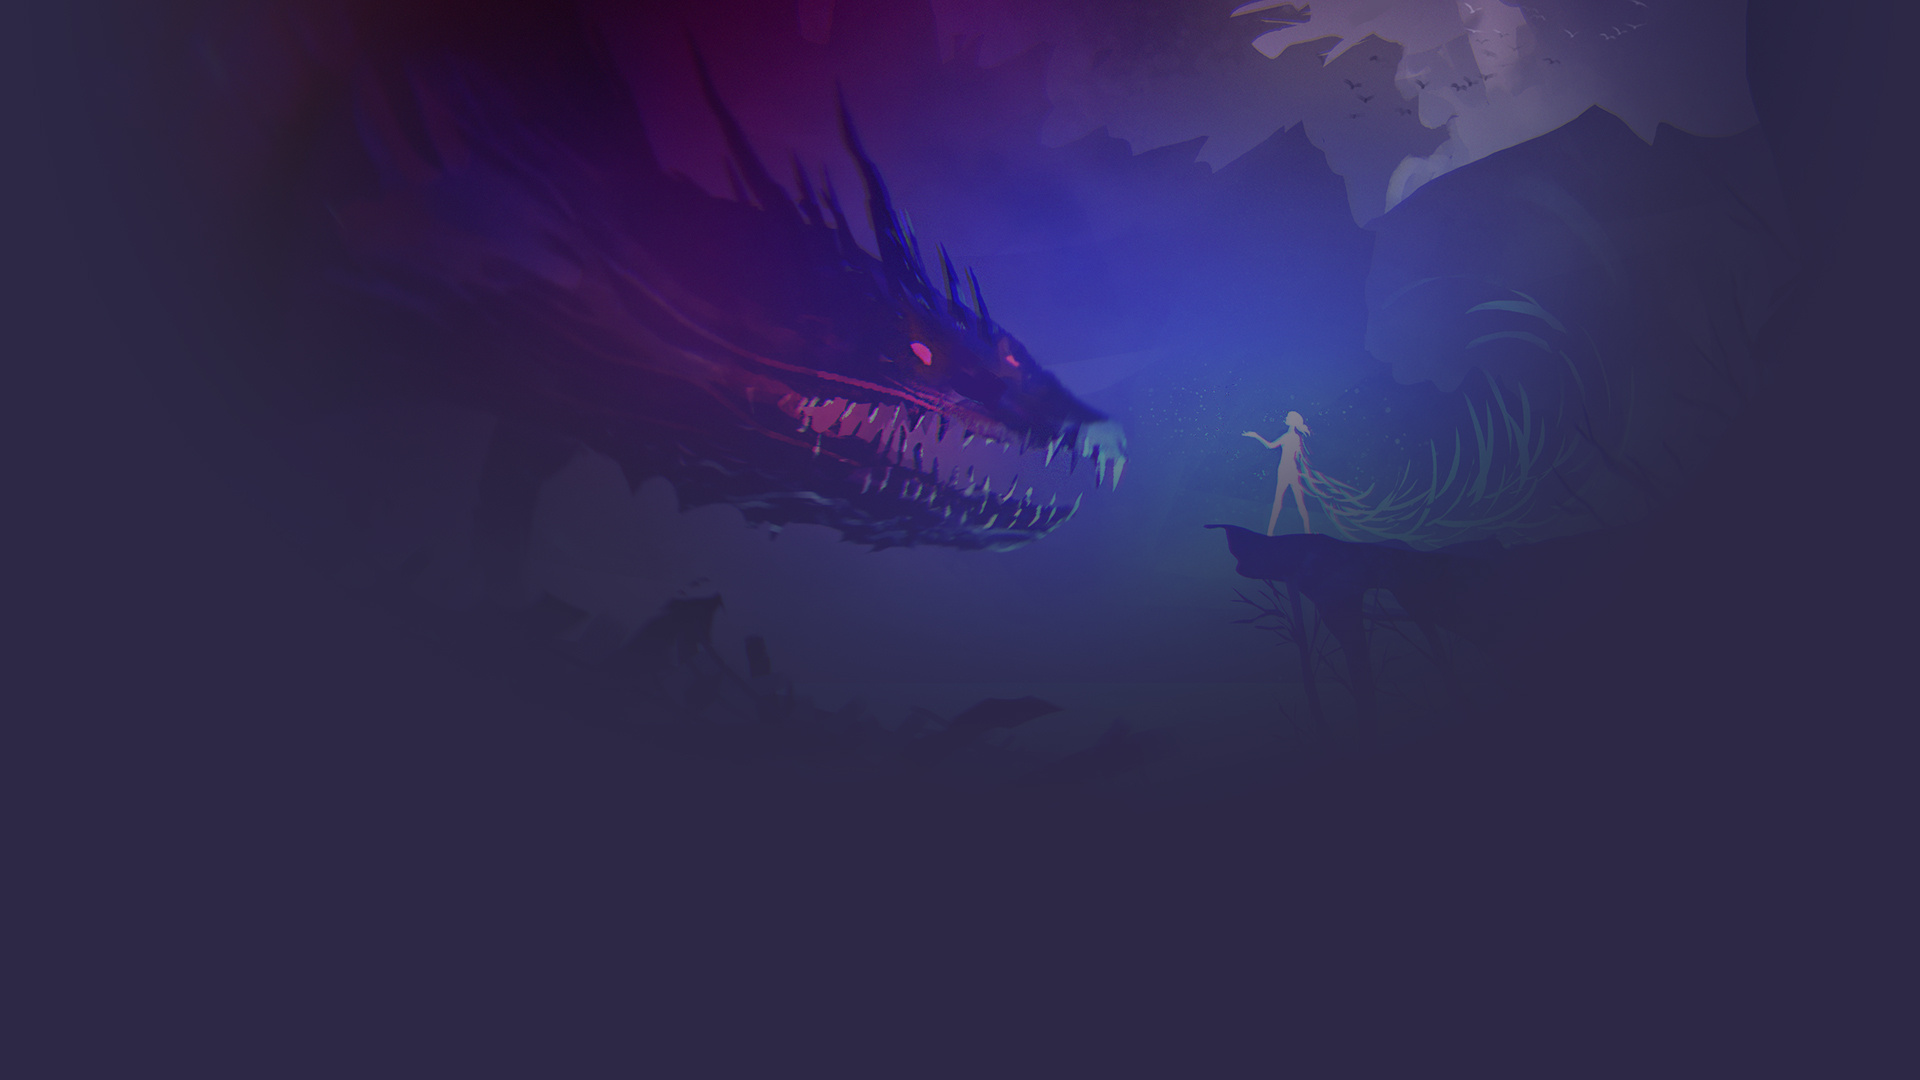
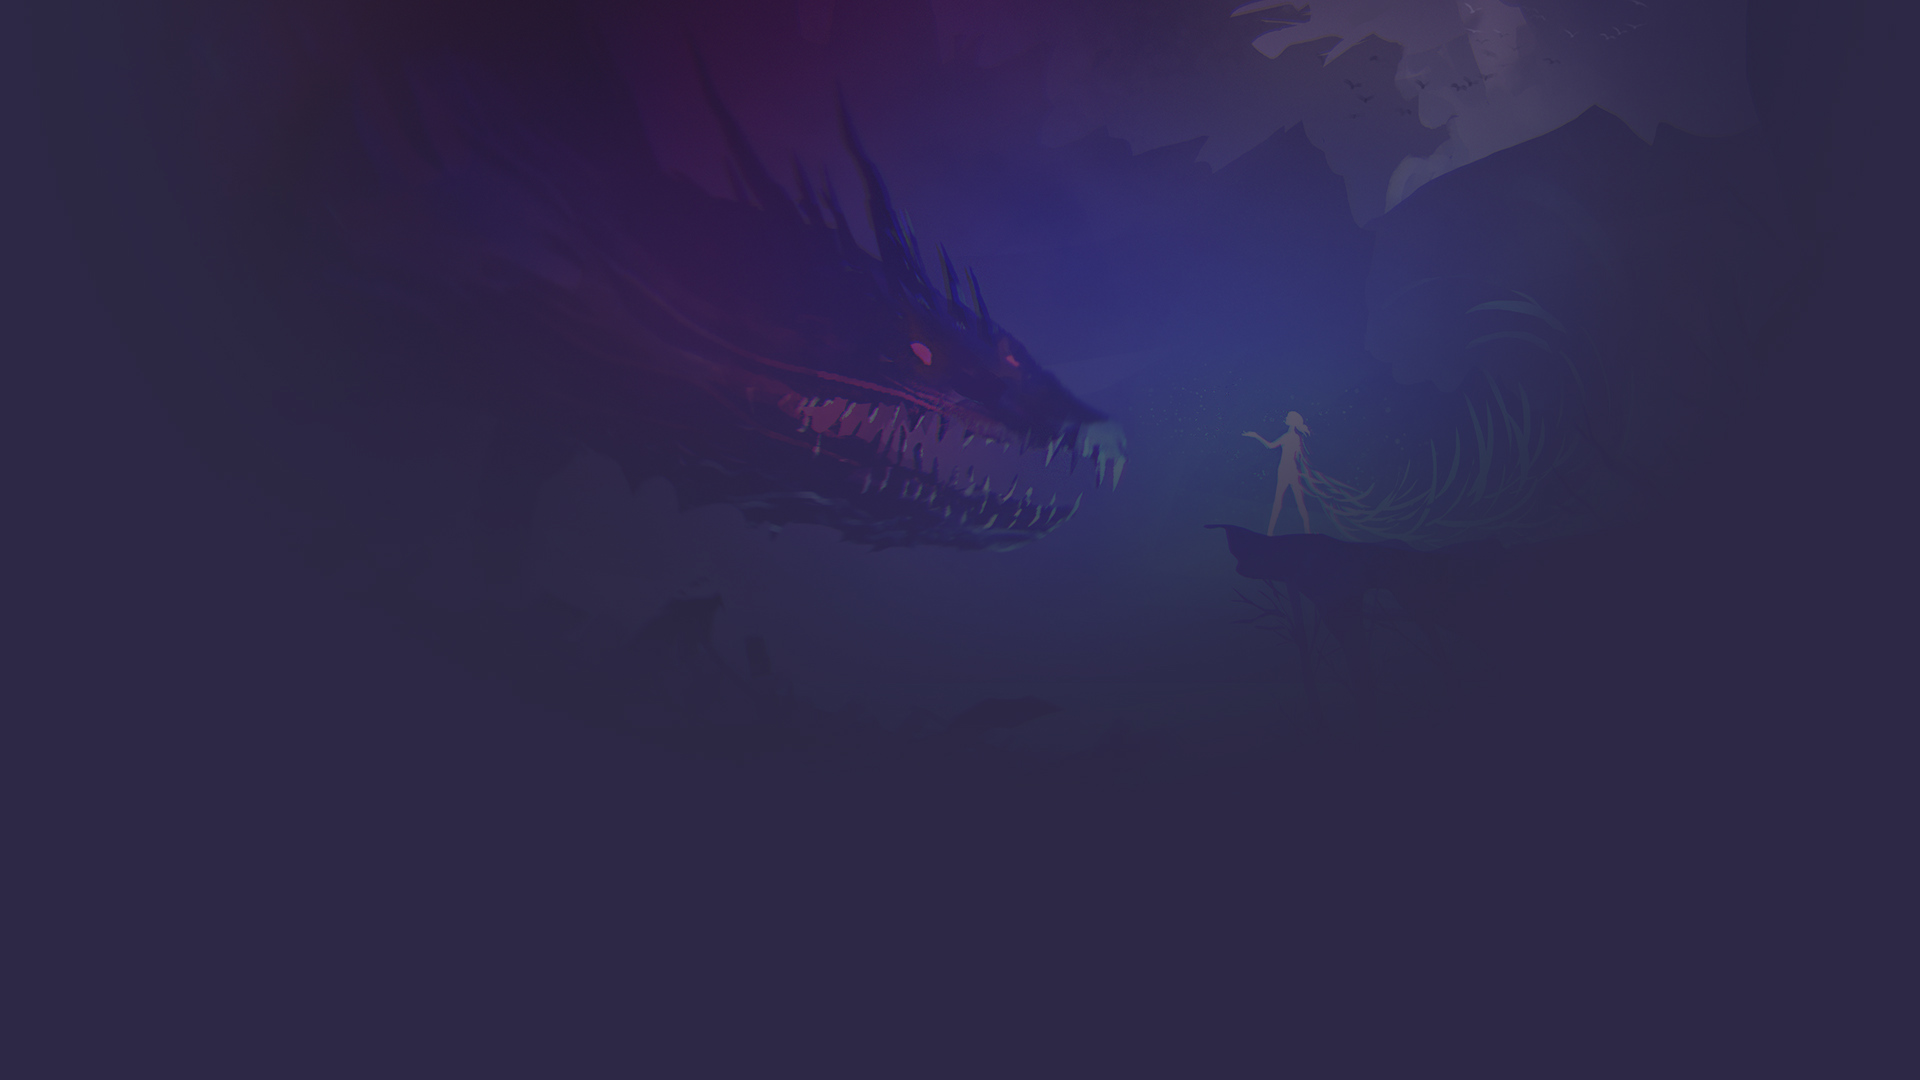
fix bug

Changed region(s): [[0.4062, 0.0, 0.8125, 0.55]]

diff --git a/assets/css/colors-dark.css b/assets/css/colors-dark.css
@@ -11,10 +11,16 @@ html {
 	background-color: #2c2846;
 	background-image: url('/images/background.jpg');
     background-repeat: no-repeat;
-    background-position-x: 45%;
-    background-position-y: -46%;
-    background-size: 1000px auto;
+    background-position-x: 50%;
+    background-position-y: -10px;
+    background-size: 1200px auto;
 /*    background-attachment: fixed;*/
+}
+
+body {
+	/*background-color: rgba(33, 29, 55, .6);*/
+	/*padding-top: 1px;*/
+	/*padding-bottom: 1px;*/
 }
 
 a, a:visited, a:active {
